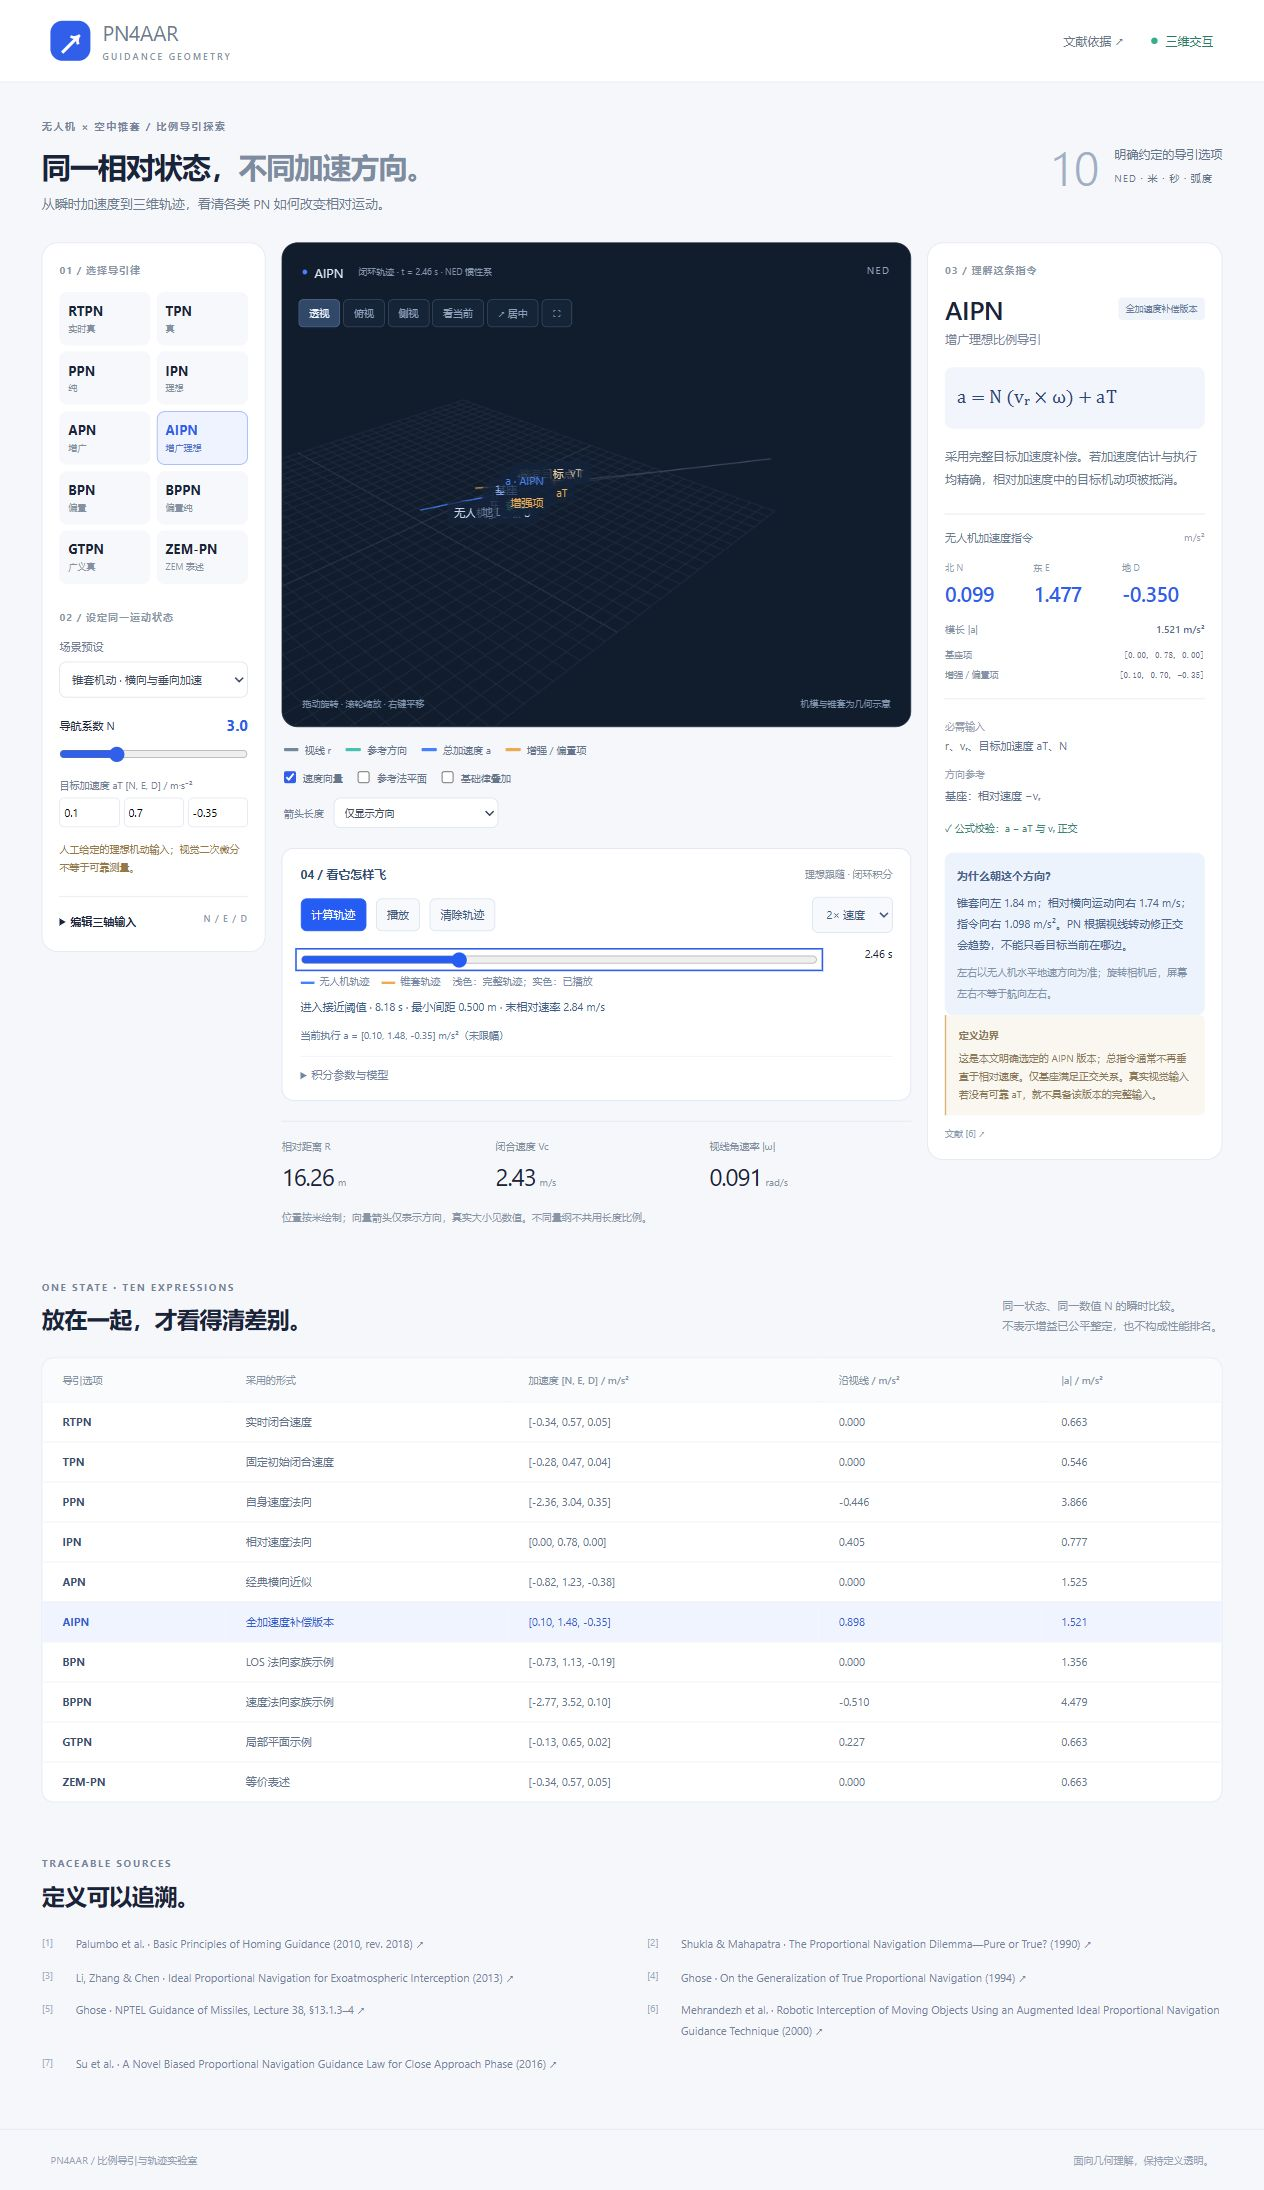
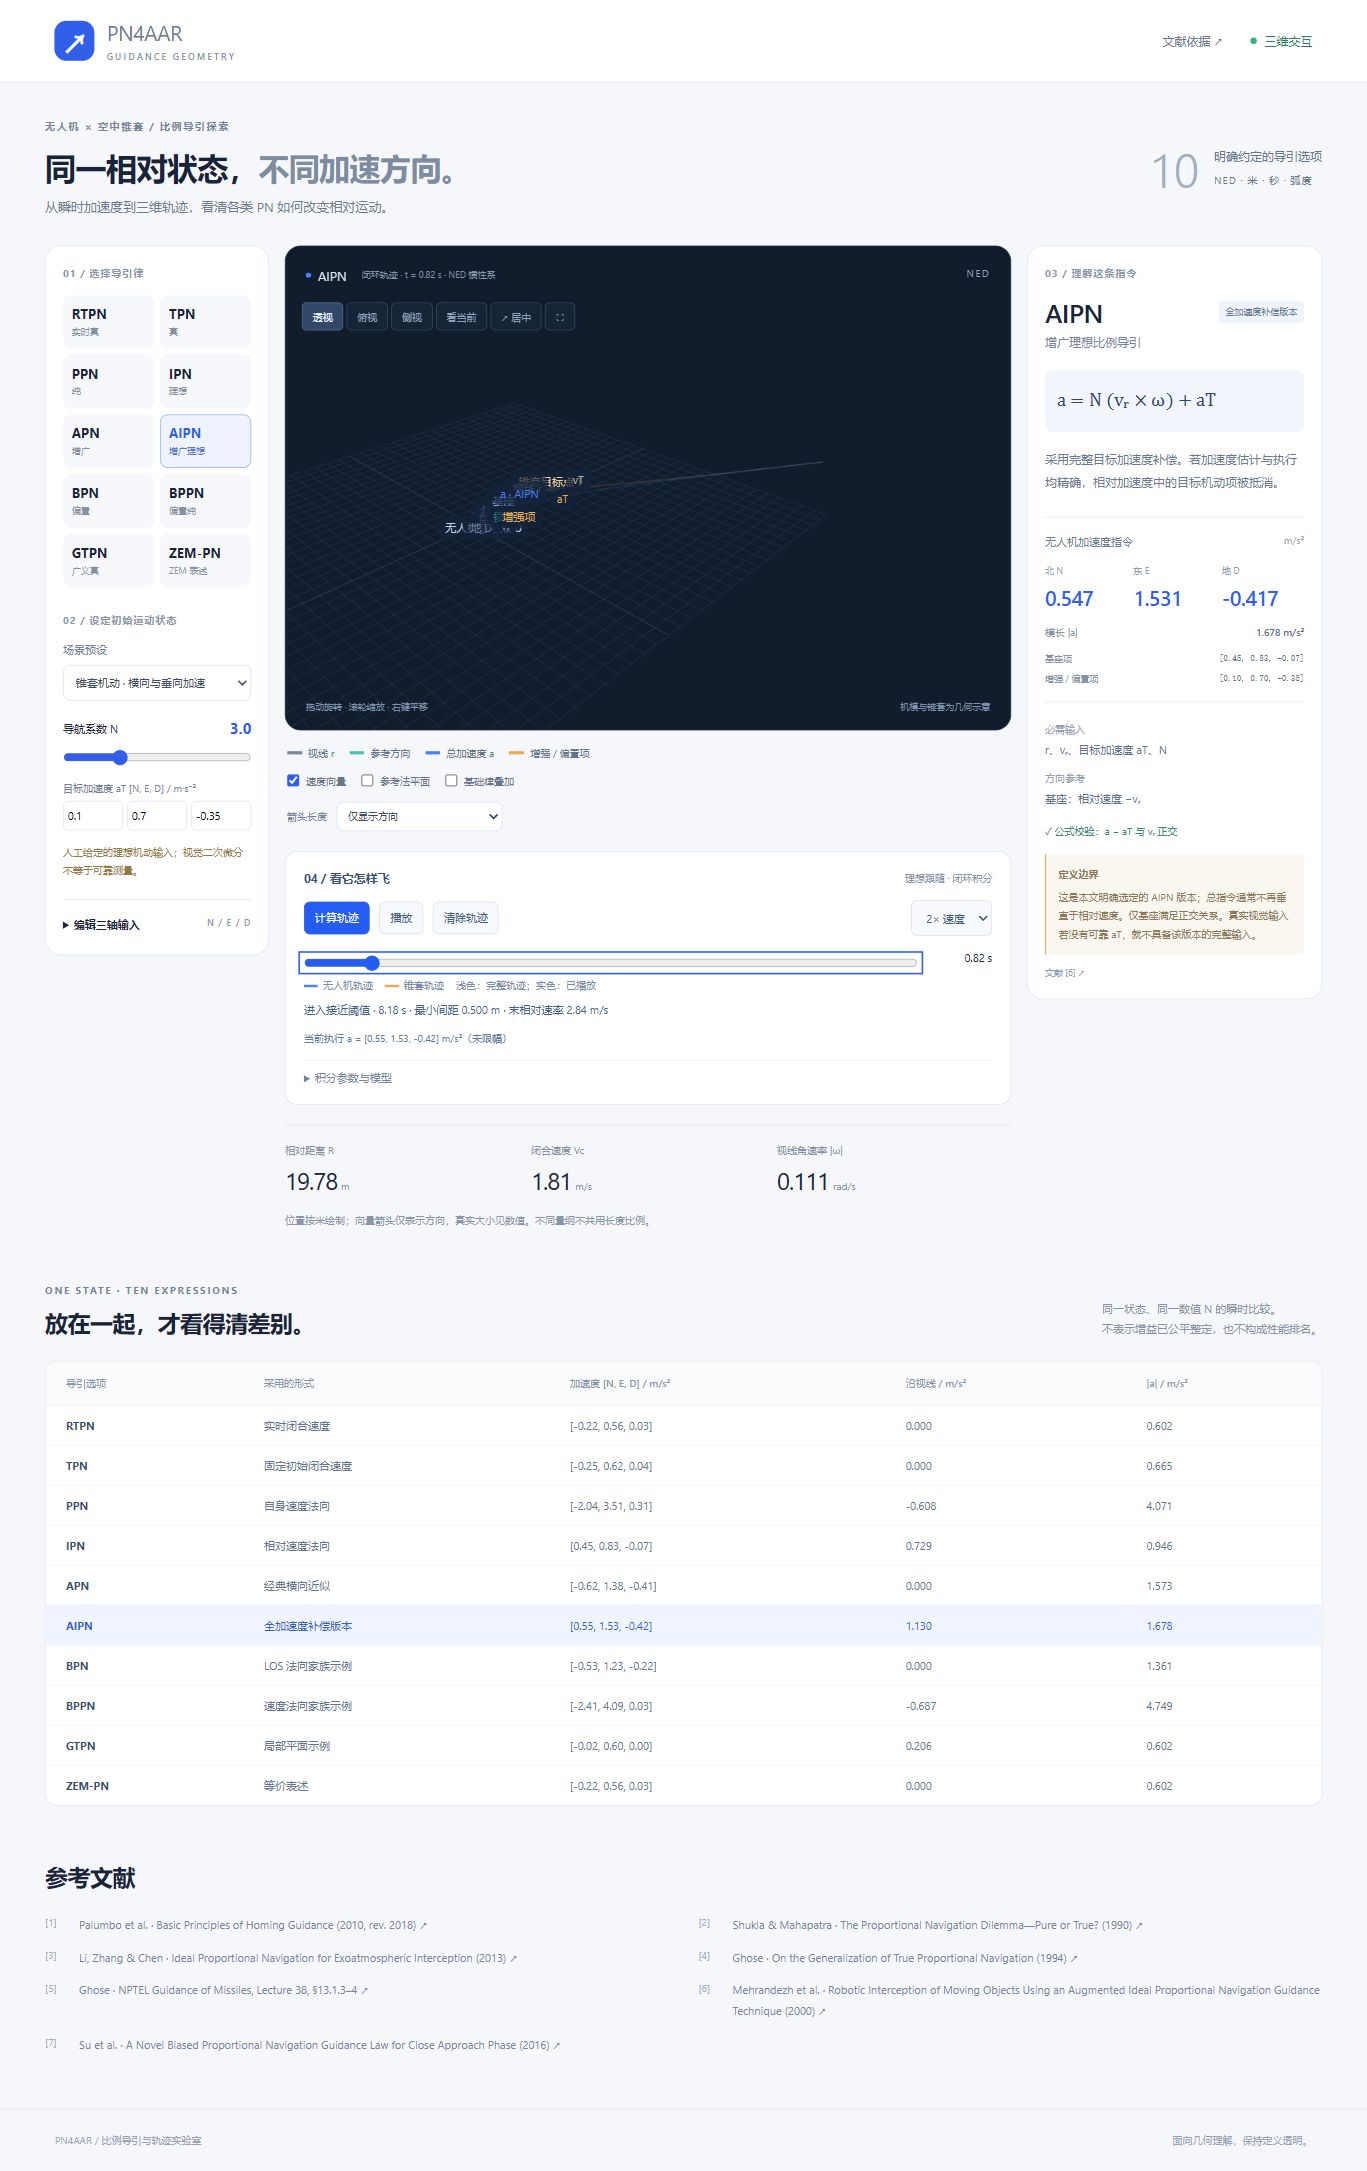
Remove direction explanation card and simplify references heading

diff --git a/index.html b/index.html
@@ -256,13 +256,6 @@
             <dd id="law-reference"></dd>
           </dl>
           <div class="check-line" id="check-line"></div>
-          <div class="direction-note">
-            <b>为什么朝这个方向？</b>
-            <p id="direction-explanation"></p>
-            <small
-              >左右以无人机水平地速方向为准；旋转相机后，屏幕左右不等于航向左右。</small
-            >
-          </div>
           <div class="definition-note">
             <b>定义边界</b>
             <p id="law-notes"></p>
@@ -296,8 +289,7 @@
         </div>
       </section>
       <section id="references" class="references">
-        <div class="eyebrow">TRACEABLE SOURCES</div>
-        <h2>定义可以追溯。</h2>
+        <h2>参考文献</h2>
         <div id="reference-list"></div>
       </section>
     </main>

diff --git a/style.css b/style.css
@@ -1026,7 +1026,7 @@ footer {
   }
 }
 
-/* 轨迹控制与方向解释；窄屏下保持单列可操作。 */
+/* 轨迹控制；窄屏下保持单列可操作。 */
 .trajectory-panel {
   margin-top: 20px;
   padding: 18px;
@@ -1142,22 +1142,6 @@ footer {
   padding: 6px;
   color: #3e5e8b;
   background: #fafbfd;
-}
-.direction-note {
-  margin-top: 16px;
-  padding: 12px;
-  background: #edf3fd;
-  border-radius: 8px;
-  font-size: 11px;
-  line-height: 1.9;
-  color: #49648a;
-}
-.direction-note p {
-  margin: 6px 0;
-}
-.direction-note small {
-  color: #8292a9;
-  font-size: 10px;
 }
 @media (max-width: 480px) {
   .trajectory-panel {
